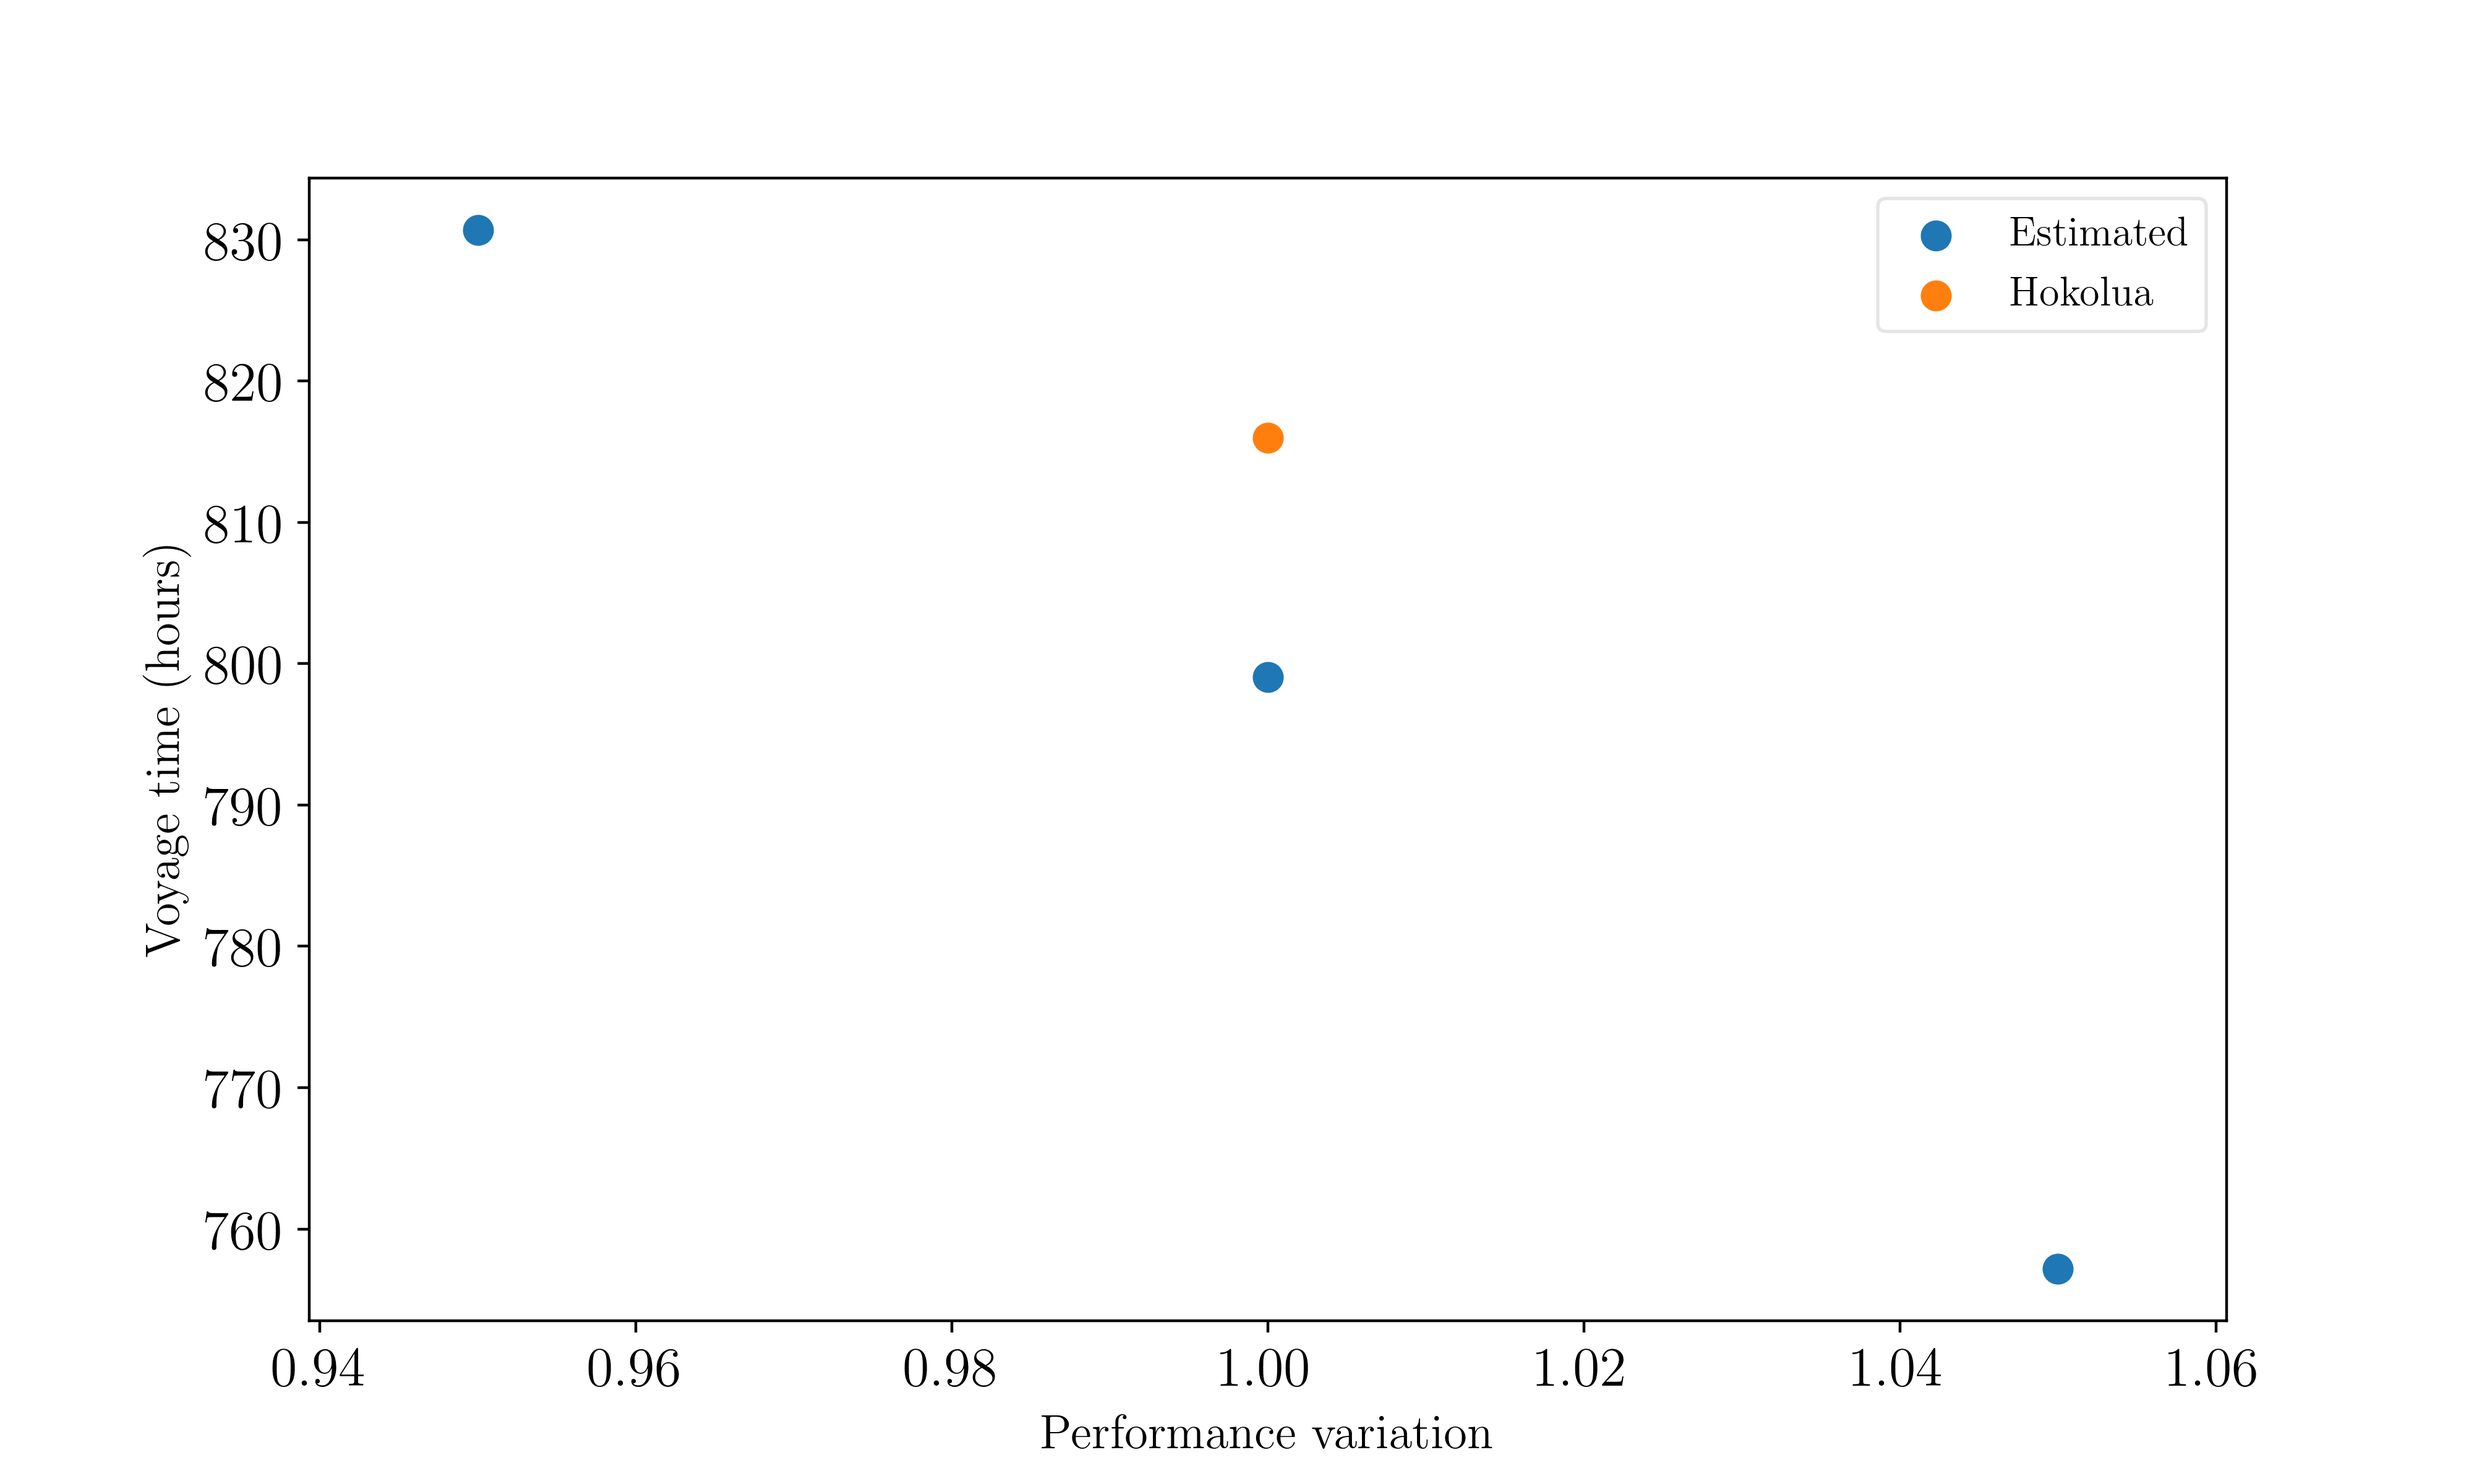
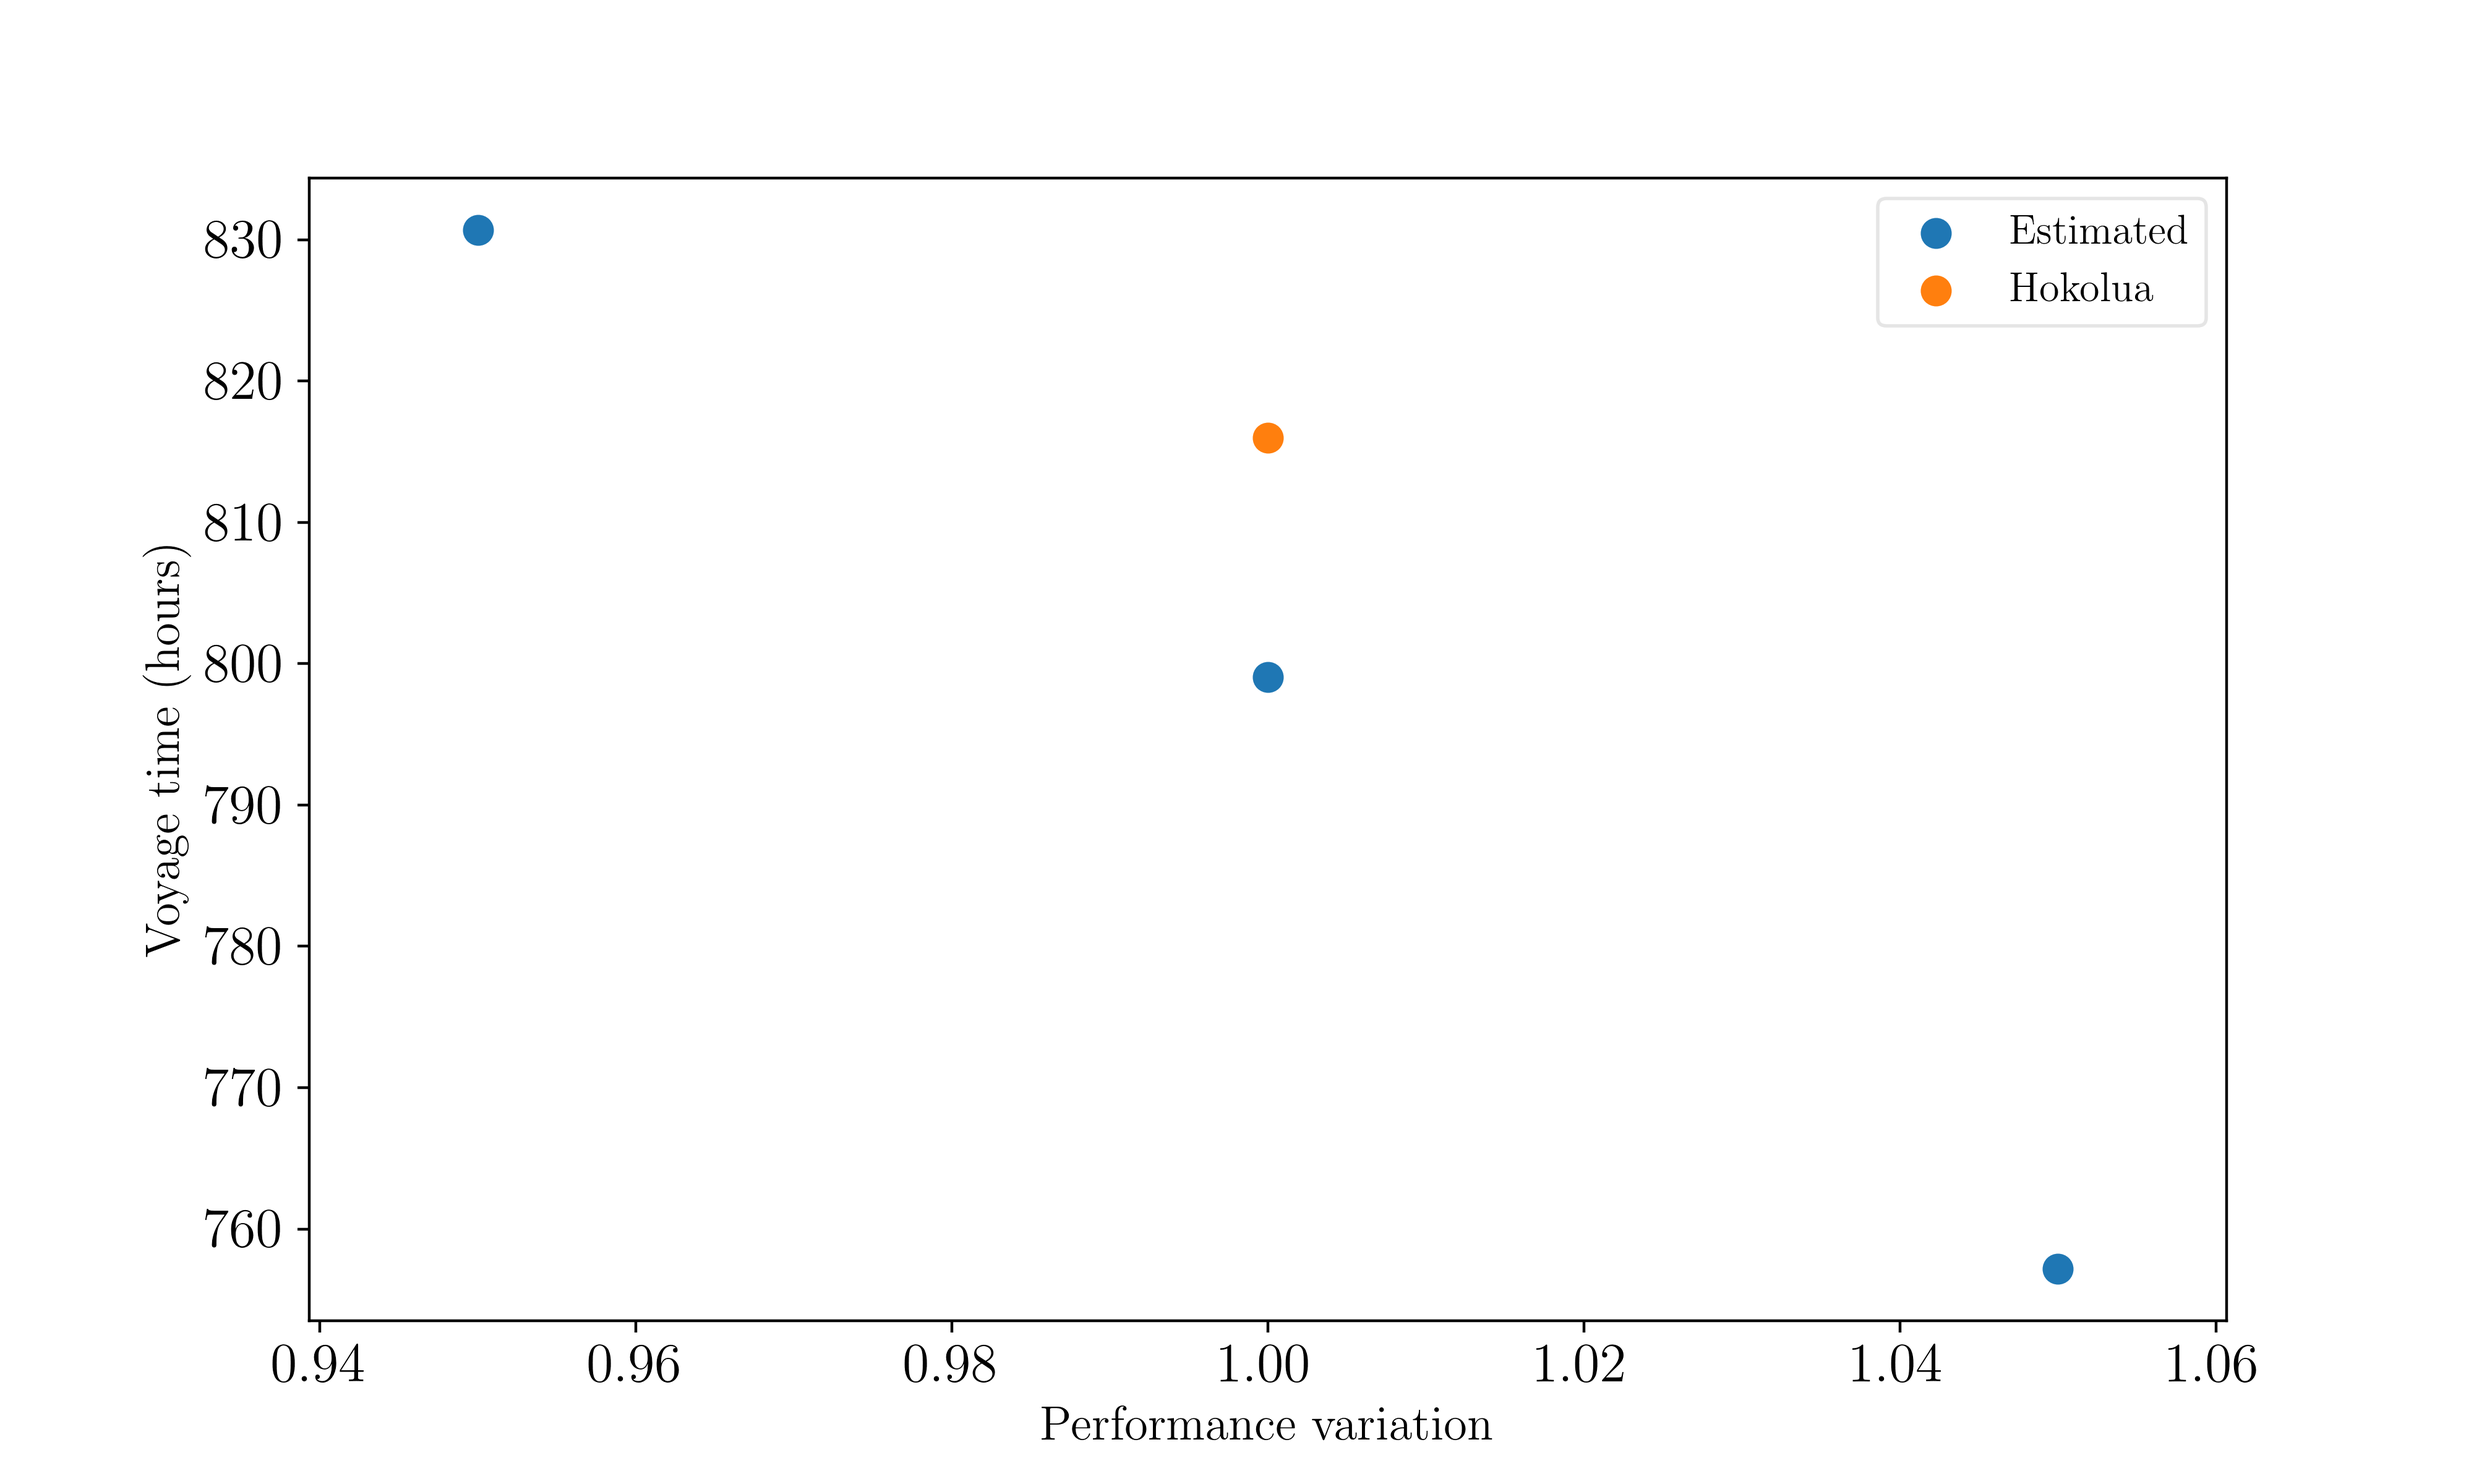
Everything is still working

diff --git a/analysis/uncertain_canoe_performance.py b/analysis/uncertain_canoe_performance.py
@@ -55,8 +55,8 @@ def plot_uncertain_routes(start, route, x, y, unc, x_r, y_r, results):
     for n, i in enumerate(unc):
         route_x, route_y = map(x_r[n], y_r[n])
         map.plot(route_x, route_y, label="""Perf = {:.2f}\%,
-                    Time = {:.2f} hours""".format(i, results[n]))
-    plt.legend(bbox_to_anchor=(1.1, 1.05), fancybox=True,
+                    Time = {:.0f} hours""".format((i-1)*100, results[n]))
+    plt.legend(bbox_to_anchor=(1.0, 0.5), fancybox=True,
                framealpha=0.5)
     plt.tight_layout()
     return plt
@@ -97,7 +97,7 @@ def run_uncertain_performance_simulation():
     start = Location(-149.426, -17.651)
     finish = Location(-157.92, 21.83)
     start_date = datetime(1976, 5, 1, 0, 0)
-    n_nodes = 20
+    n_nodes = 10
     n_width = n_nodes
     print("Nodes in rank: ", n_nodes)
     print("Nodes in width: ", n_width)
@@ -136,9 +136,9 @@ def run_uncertain_performance_simulation():
         route_x.append(x_r)
         route_y.append(y_r)
     plot_uncertainty(unc, results)
-    plt.savefig(dia_path+"/unc_vt.png")
+    plt.savefig(dia_path+"/unc_vt_test.png")
     plot_uncertain_routes(start, r, x, y, unc, route_x, route_y, results)
-    plt.savefig(dia_path+"/unc_vt_routes.png")
+    plt.savefig(dia_path+"/unc_vt_routes_test.png")
     # plot_uncertain_routes_hex(start, r, x, y, unc, x_r, y_r, results)
     # plt.show()
 

diff --git a/sail_route/performance/bbn.py b/sail_route/performance/bbn.py
@@ -85,7 +85,3 @@ def env_bbn_interrogate(craft, tws, twa, h, theta):
                            'WH': wave_height(h),
                            'WD': wave_dir(theta)})
     return q['Craft failure'].values[-1]
-
-
-if __name__ == '__main__':
-    npt.assert_almost_equal(env_bbn(10.0, 50.0, 1.5, 50.0), 0.0)

diff --git a/analysis/asv/transat_great_cirle.py b/analysis/asv/transat_great_cirle.py
@@ -1,0 +1,11 @@
+"""Plotting great circle routes.
+
+Thomas Dickson
+24/05/2018
+thomas.dickson@soton.ac.uk
+"""
+
+import matplotlib
+matplotlib.use('Agg')
+import matplotlib.pyplot as plt
+from mpl_toolkits.basemap import Basemap
